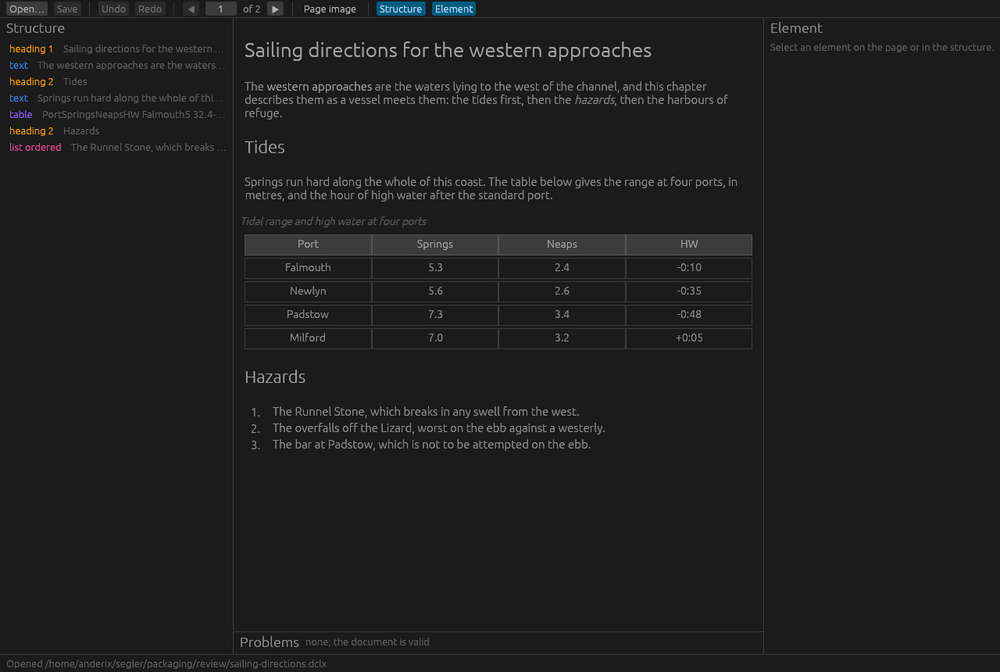
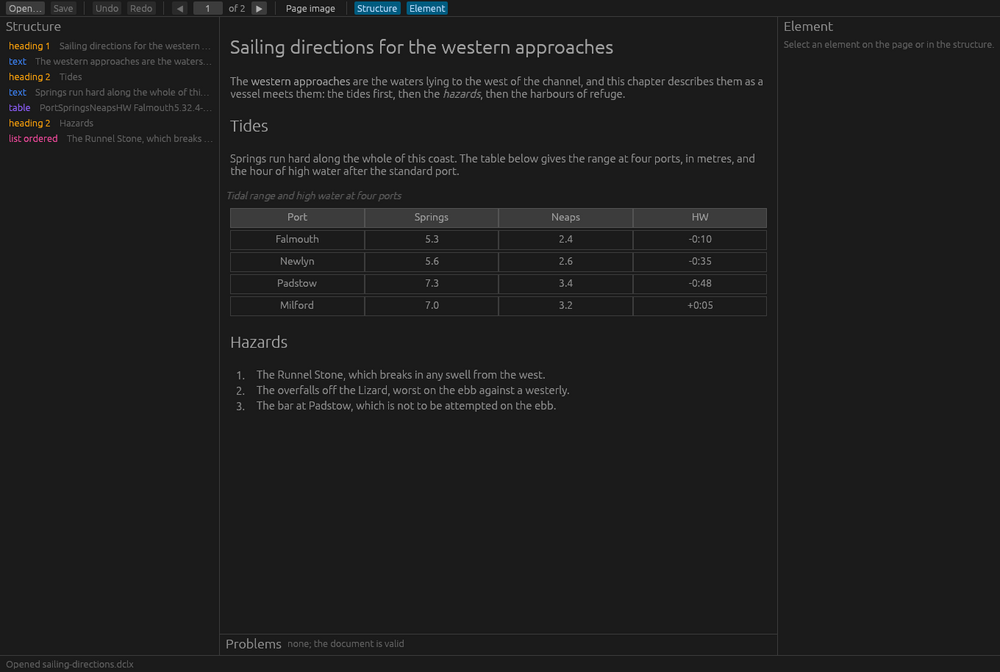
Segler screenshots without the home-directory path; footer spacing; full-width table

Changed region(s): [[0.0, 0.0, 0.775, 0.6875], [0.0, 0.9375, 0.434, 1.0], [0.775, 0.0312, 0.992, 0.0938]]

diff --git a/site.css b/site.css
@@ -273,3 +273,11 @@ nav ul li {
         padding-left: 0;
     }
 }
+
+article > footer {
+    margin-top: 2rem;
+}
+
+article table {
+    width: 100%;
+}
